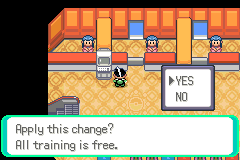
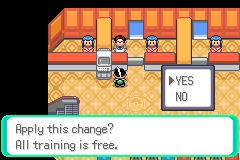
Fix invisible training scientists and support legacy saved sprite IDs
Use the populated Emerald Scientist 1 graphics slot in all 17 working Center upstairs rooms. Alias the previously empty FRLG scientist slot for already-saved actors. Verify visible pixel contributions per room, training and cancellable evolution menus, Nurse Joy healing and storage behavior with 737 checks. Preserve the player battery save and map edits.

Changed region(s): [[0.4667, 0.2188, 0.525, 0.3438]]

diff --git a/tools/la_world/storage/test_training_scientist_visibility.py b/tools/la_world/storage/test_training_scientist_visibility.py
@@ -1,0 +1,45 @@
+"""Require visible scientist pixels in every functional upstairs room."""
+from pathlib import Path
+R=Path(__file__).resolve().parents[3]
+exec(compile((R/'tools/la_world/storage/test_training_scientist.py').read_text().split('for mode in [0,1]:')[0],'training_helpers','exec'))
+from PIL import Image,ImageChops
+D=R/'.la_work/training-visibility';D.mkdir(exist_ok=True)
+with tempfile.TemporaryDirectory() as td:
+ td=Path(td);(td/'v.c').write_text('#include "global.h"\n#include "sprite.h"\n#include "constants/event_objects.h"\n#include <stddef.h>\nconst unsigned v[]={sizeof(struct ObjectEvent),offsetof(struct ObjectEvent,graphicsId),offsetof(struct ObjectEvent,spriteId),sizeof(struct Sprite),offsetof(struct Sprite,x),offsetof(struct Sprite,y),offsetof(struct Sprite,x2),offsetof(struct Sprite,y2),OBJ_EVENT_GFX_SCIENTIST,OBJ_EVENT_GFX_SCIENTIST_1};')
+ subprocess.run(['arm-none-eabi-gcc','-iquote','include','-mabi=apcs-gnu','-mthumb','-march=armv4t','-DMODERN=1','-DEMERALD','-c',str(td/'v.c'),'-o',str(td/'v.o')],cwd=R,check=True)
+ subprocess.run(['arm-none-eabi-objcopy','-O','binary','--only-section=.rodata',str(td/'v.o'),str(td/'v.bin')],check=True)
+ osize,gfxoff,sidoff,ssize,xoff,yoff,x2off,y2off,legacy,native=struct.unpack('<10I',(td/'v.bin').read_bytes())
+def signed(v):return v-65536 if v&0x8000 else v
+mg=json.loads((R/'data/maps/map_groups.json').read_text())
+start(0);invoke('ScriptGiveMon',4,5,0)
+check('legacy_saved_id_resolves',invoke('GetObjectEventGraphicsInfo',legacy)==invoke('GetObjectEventGraphicsInfo',native)!=0)
+proof=[]
+for index,row in enumerate(json.loads((R/'docs/features/training-scientist-locations.json').read_text())):
+ if index:
+  lib.shutdown();start(0);invoke('ScriptGiveMon',4,5,0)
+ for group,gname in enumerate(mg['group_order']):
+  if row['map'] in mg[gname]:mid=mg[gname].index(row['map']);break
+ warp(group,mid,4,4)
+ obj=invoke('GetObjectEventIdByLocalIdAndMap',row['local_id'],mid,group)
+ check('actor_'+row['map'],obj<16)
+ a=symbols['gObjectEvents']+obj*osize
+ info=invoke('GetObjectEventGraphicsInfo',rd(a+gfxoff,2))
+ check('resolved_graphics_'+row['map'],info!=0)
+ sp=symbols['gSprites']+rd(a+sidoff,1)*ssize
+ x=signed(rd(sp+xoff,2))+signed(rd(sp+x2off,2))+signed(rd(symbols['gSpriteCoordOffsetX'],2))
+ y=signed(rd(sp+yoff,2))+signed(rd(sp+y2off,2))+signed(rd(symbols['gSpriteCoordOffsetY'],2))
+ frames(15)
+ visible=Image.open(shot('visible_'+row['map'])).convert('RGB').copy()
+ invoke('SetObjectInvisibility',row['local_id'],mid,group,1);frames(2)
+ hidden=Image.open(shot('hidden_'+row['map'])).convert('RGB').copy()
+ area=(max(0,x-10),max(0,y-18),min(240,x+10),min(160,y+17))
+ diff=ImageChops.difference(visible.crop(area),hidden.crop(area))
+ changed=sum(any(px) for px in diff.getdata())
+ print(row['map'],x,y,changed,flush=True)
+ check('visible_pixels_'+row['map'],changed>=40)
+ invoke('SetObjectInvisibility',row['local_id'],mid,group,0)
+ proof.append(dict(map=row['map'],pixels=changed))
+ if row['map']=='OldaleTown_PokemonCenter_2F':visible.save(R/'docs/features/training-scientist-visible.png')
+lib.shutdown()
+(R/'docs/features/training-scientist-visibility-validation.json').write_text(json.dumps(dict(passed=True,assertions=len(checks),maps=proof,rom_sha256=hashlib.sha256((R/'pokeemerald.gba').read_bytes()).hexdigest()),indent=2)+'\n')
+print('PASS',len(checks),'scientist pixel-visibility checks')

diff --git a/tools/la_world/place_training_scientists.py b/tools/la_world/place_training_scientists.py
@@ -14,9 +14,12 @@ for name in sorted({n for group in groups['group_order'] for n in groups[group]}
  if not matches:
   assert not any(obj['x']==4 and obj['y']==2 for obj in objects),(name,'requested tile occupied')
   assert len(objects)<16,(name,'object limit')
-  objects.append(dict(graphics_id='OBJ_EVENT_GFX_SCIENTIST',x=4,y=2,elevation=3,movement_type='MOVEMENT_TYPE_FACE_DOWN',movement_range_x=0,movement_range_y=0,trainer_type='TRAINER_TYPE_NONE',trainer_sight_or_berry_tree_id='0',script='LegendsTraining_Scientist',flag='0'))
+  objects.append(dict(graphics_id='OBJ_EVENT_GFX_SCIENTIST_1',x=4,y=2,elevation=3,movement_type='MOVEMENT_TYPE_FACE_DOWN',movement_range_x=0,movement_range_y=0,trainer_type='TRAINER_TYPE_NONE',trainer_sight_or_berry_tree_id='0',script='LegendsTraining_Scientist',flag='0'))
   path.write_text(json.dumps(data,indent=2)+'\n');matches=[len(objects)-1]
  assert len(matches)==1
+ if objects[matches[0]]['graphics_id']!='OBJ_EVENT_GFX_SCIENTIST_1':
+  objects[matches[0]]['graphics_id']='OBJ_EVENT_GFX_SCIENTIST_1'
+  path.write_text(json.dumps(data,indent=2)+'\n')
  manifest.append(dict(map=name,local_id=matches[0]+1,x=4,y=2))
 (R/'docs/features/training-scientist-locations.json').write_text(json.dumps(manifest,indent=2)+'\n')
 print('Training scientists:',len(manifest))

diff --git a/src/data/object_events/object_event_graphics_info_pointers.h b/src/data/object_events/object_event_graphics_info_pointers.h
@@ -1149,6 +1149,11 @@ const struct ObjectEventGraphicsInfo *const gObjectEventGraphicsInfoPointers[] =
     [OBJ_EVENT_GFX_DEOXYS_N]                 = &gObjectEventGraphicsInfo_DeoxysN,
     [OBJ_EVENT_GFX_SS_ANNE]                  = &gObjectEventGraphicsInfo_SSAnne,
 #endif // IS_FRLG
+#if !IS_FRLG
+    // Legacy scientist ID was used by early training-service saves. The FRLG
+    // slot is otherwise empty in Emerald; retain a valid cosmetic fallback.
+    [OBJ_EVENT_GFX_SCIENTIST] = &gObjectEventGraphicsInfo_Scientist1,
+#endif
 };
 
 const struct ObjectEventGraphicsInfo *const gMauvilleOldManGraphicsInfoPointers[] = {

diff --git a/docs/features/training-scientist.md b/docs/features/training-scientist.md
@@ -9,3 +9,7 @@ Level catch-up raises the Pokémon to a chosen level within the current player c
 Each change is previewed and confirmed before it is applied, then validated again at commit. Cancelled, invalid or unchanged choices do not modify the Pokémon. EV, IV and Nature changes recalculate current stats. Eggs and bad eggs are rejected. Personality, OT ID, friendship, held items and the save layout remain unchanged.
 
 Tests use isolated emulator saves. Coverage includes EV/IV boundaries, total limits, legal Ability/Nature changes, cap enforcement, identity preservation, both storage modes, box save/load, upstairs placements, real menu cancellation, numeric value 127 (which must not collide with B/cancel), and native evolution flow. Slateport Market is outside this task.
+
+## Sprite compatibility
+
+Training scientists use the native Emerald Scientist 1 sprite. The generic FireRed scientist ID previously pointed at an empty Emerald graphics slot, so the actor existed but contributed no visible pixels. A graphics-table alias also maps that old ID to the Emerald sprite for existing saved actors. Pixel-difference tests verify visible bodies in all 17 rooms, alongside training/evolution and Nurse Joy regressions.
